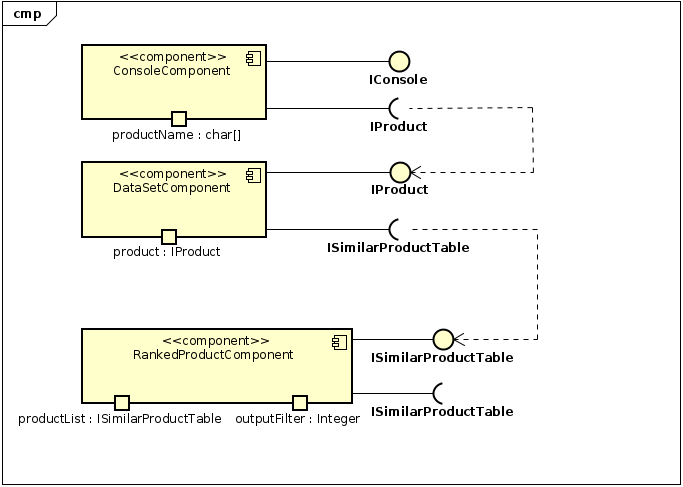
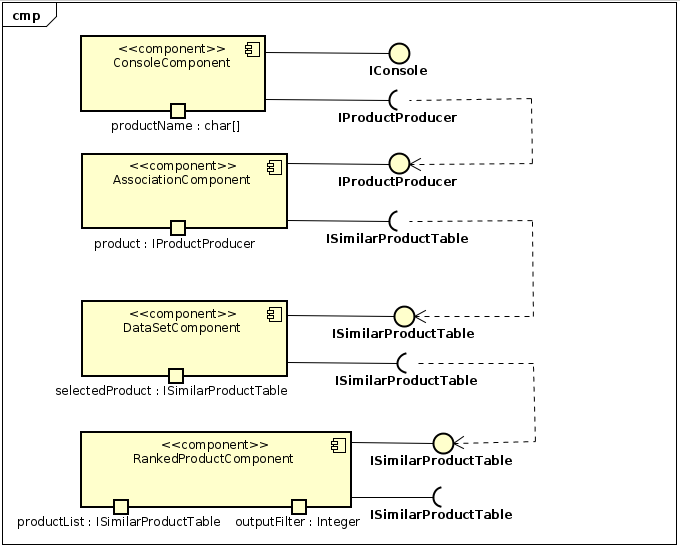
INF331 - adiciona novo componente para descrever melhor o processo

diff --git a/lab01/README.md b/lab01/README.md
@@ -31,10 +31,14 @@
 # Projeto de Composição de Componentes para Recomendação
 - **ConsoleComponent** > 
 Este componente recebe o input do usuário com o nome do produto que ele deseja comprar<br />
-e gera uma interface do tipo IProduct que é utilizada dentro do sistema.<br />
+e gera uma interface do tipo IProductProducer que é utilizada dentro do sistema.<br />
+- **AssociationComponent** >
+Este componente é responsável por receber o produto selecionado e realizar as regras de associação<br />
+necessárias para escolher produtos similares. Gera um ISimilarProductTable com a lista de produtos<br />
+similares<br />
 - **DataSetComponent** > 
-Este componente por sua vez, recebe a interface IProduct e gera uma lista de produtos similares<br />
-utilizando uma interface padrão chamada ISimilarProductTable.<br />
+Este componente por sua vez, recebe a interface ISimilarProductTable e age como uma base de dados<br />
+contendo todos os produtos semelhantes utilizando uma interface padrão chamada ISimilarProductTable.<br />
 - **RankedProductComponent** >
 Este componente recebe a interface de produtos similares contendo a lista completa e realiza <br />
 o rankeamento dos produtos. Sua saída é a mesma interface (ISimilarProductTable), entretanto com <br />
